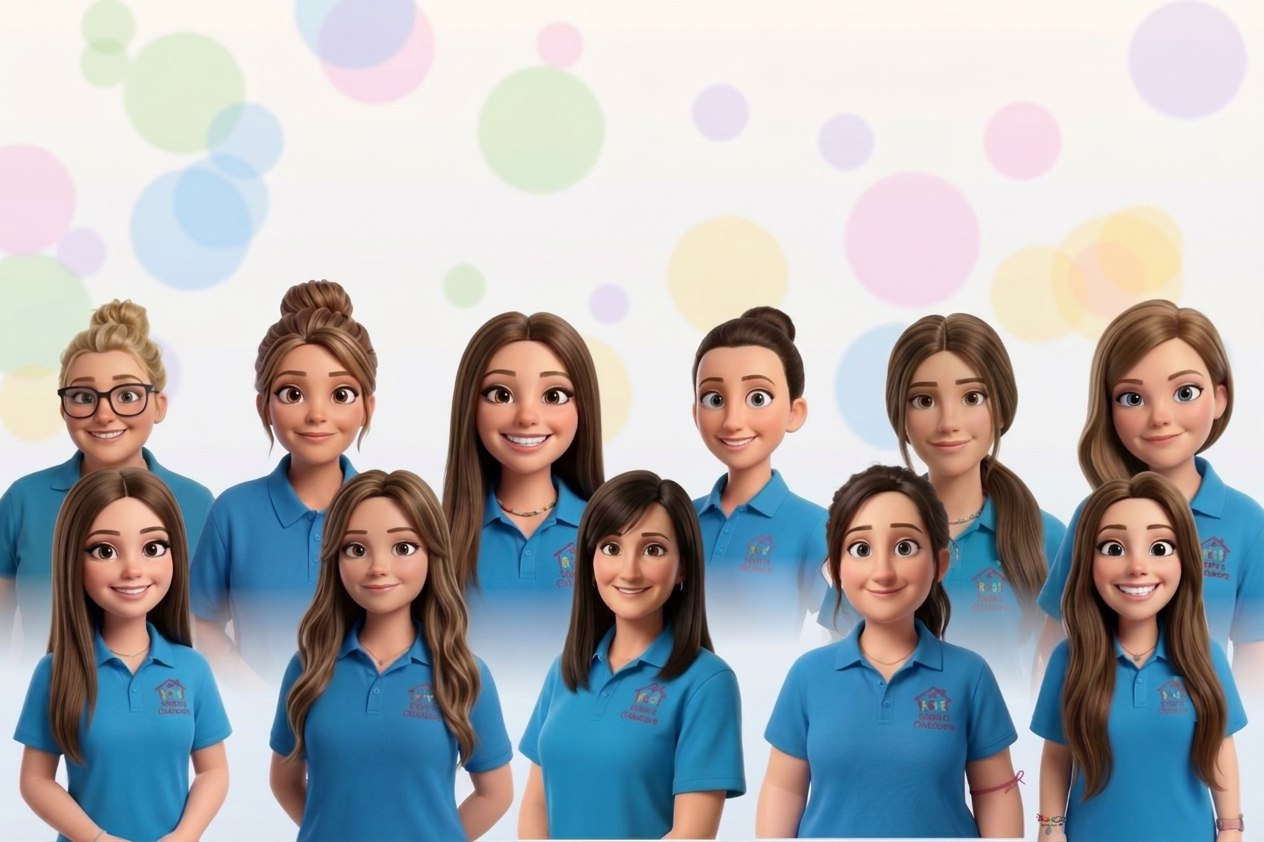
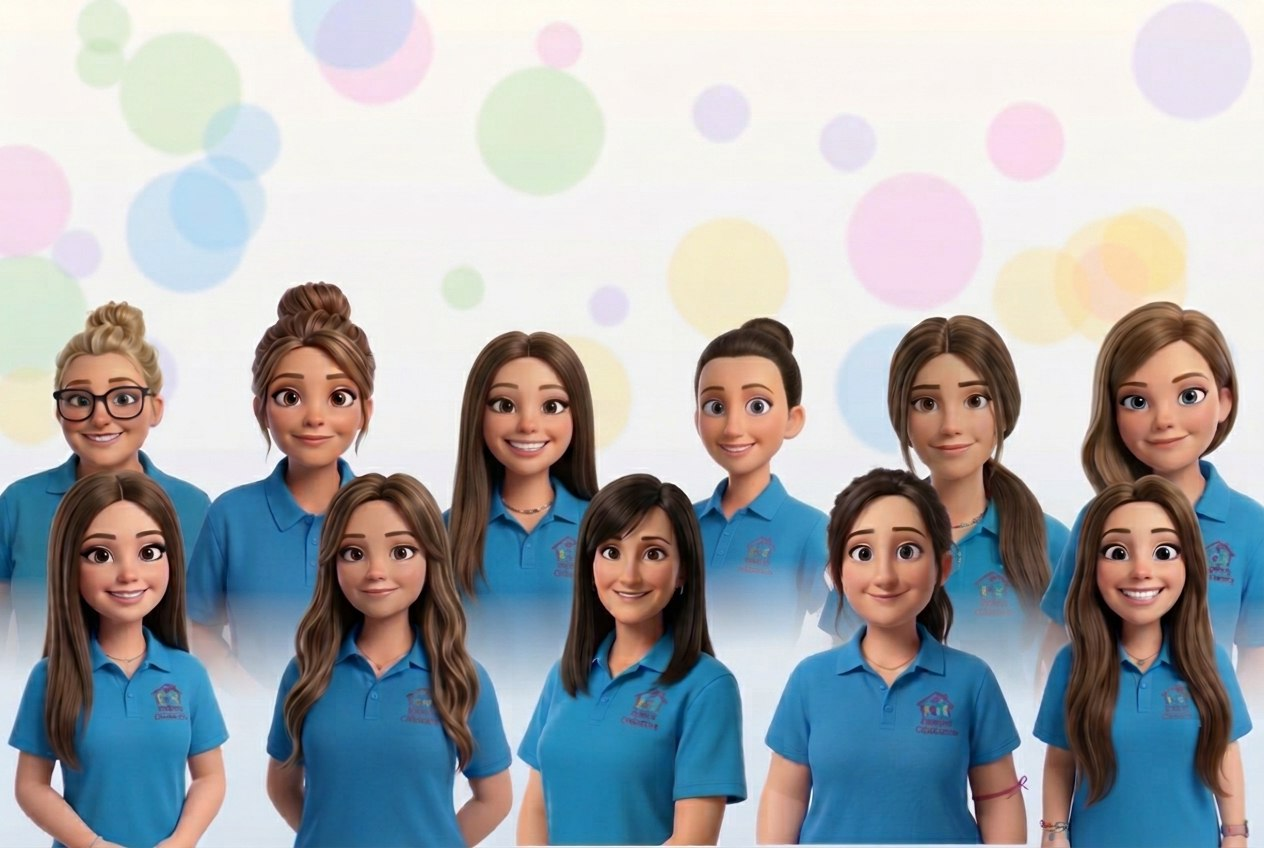
Team group: Katie's latest group picture

diff --git a/index.html b/index.html
@@ -15,7 +15,7 @@
   <meta property="og:title" content="Katie's Childcare | Nursery in Gedney Drove End, Spalding">
   <meta property="og:description" content="A warm, family-run nursery in Gedney Drove End for children aged 0 to 8. Come and see us in action.">
   <meta property="og:url" content="https://www.katieschildcare.co.uk/">
-  <meta property="og:image" content="https://www.katieschildcare.co.uk/assets/team-group.jpg?v=202611271859">
+  <meta property="og:image" content="https://www.katieschildcare.co.uk/assets/team-group.jpg?v=202611271904">
   <meta property="og:image:width" content="1800">
   <meta property="og:image:height" content="1200">
   <meta property="og:image:alt" content="Cartoon illustration of the Katie's Childcare team">
@@ -84,11 +84,11 @@
     ]
   }
   </script>
-  <link rel="icon" href="assets/logo-transparent.png?v=202611271859">
+  <link rel="icon" href="assets/logo-transparent.png?v=202611271904">
   <link rel="preconnect" href="https://fonts.googleapis.com">
   <link rel="preconnect" href="https://fonts.gstatic.com" crossorigin>
   <link href="https://fonts.googleapis.com/css2?family=DM+Mono:wght@400;500&family=Fredoka:wght@500;600;700&family=Instrument+Serif:ital@1&family=Nunito:wght@400;600;700;800&display=swap" rel="stylesheet">
-  <link rel="stylesheet" href="styles.css?v=202611271859">
+  <link rel="stylesheet" href="styles.css?v=202611271904">
 </head>
 <body>
   <a class="skip-link" href="#main">Skip to content</a>
@@ -101,7 +101,7 @@
   <header class="site-header" id="top">
     <div class="container nav">
       <a class="brand" href="#top" aria-label="Katie's Childcare, back to top">
-        <img src="assets/logo-transparent.png?v=202611271859" alt="Katie's Childcare" width="640" height="241">
+        <img src="assets/logo-transparent.png?v=202611271904" alt="Katie's Childcare" width="640" height="241">
       </a>
       <button class="nav-toggle" aria-expanded="false" aria-controls="nav-menu" aria-label="Open menu">
         <span></span><span></span><span></span>
@@ -141,7 +141,7 @@
             <p class="bubble-script">Come and see us in action.</p>
           </div>
           <div class="mascot">
-            <img src="assets/team/katie.jpg?v=202611271859" alt="Cartoon portrait of Katie smiling in a blue Katie's Childcare polo shirt" width="640" height="854">
+            <img src="assets/team/katie.jpg?v=202611271904" alt="Cartoon portrait of Katie smiling in a blue Katie's Childcare polo shirt" width="640" height="854">
           </div>
           <a class="btn btn-primary btn-sm" href="#day">See our day <svg aria-hidden="true" viewBox="0 0 24 24"><path d="M5 12h14M13 6l6 6-6 6"/></svg></a>
         </div>
@@ -204,7 +204,7 @@
               <p class="room-kind">Baby room</p>
               <h3>Tiny Treasures</h3>
               <p>A calm, cosy space for our youngest children, full of cuddles, songs and gentle play. Routines follow your baby's own feeding and sleep times.</p>
-              <p class="room-lead"><span class="avatar"><img src="assets/team/emily.jpg?v=202611271859" alt="" width="640" height="854" loading="lazy"></span><span>Room leader<strong>Emily</strong></span></p>
+              <p class="room-lead"><span class="avatar"><img src="assets/team/emily.jpg?v=202611271904" alt="" width="640" height="854" loading="lazy"></span><span>Room leader<strong>Emily</strong></span></p>
             </div>
           </article>
           <article class="room reveal" style="--c:var(--orange); --soft:var(--orange-soft); --d:.06s">
@@ -213,7 +213,7 @@
               <p class="room-kind">Toddler room</p>
               <h3>Little Gems</h3>
               <p>Busy little explorers learn through messy play, music and making new friends, with plenty of help along the way with talking, sharing and growing in confidence.</p>
-              <p class="room-lead"><span class="avatar"><img src="assets/team/chloe-day.jpg?v=202611271859" alt="" width="640" height="854" loading="lazy"></span><span>Room leader<strong>Chloe</strong></span></p>
+              <p class="room-lead"><span class="avatar"><img src="assets/team/chloe-day.jpg?v=202611271904" alt="" width="640" height="854" loading="lazy"></span><span>Room leader<strong>Chloe</strong></span></p>
             </div>
           </article>
           <article class="room reveal" style="--c:var(--blue); --soft:var(--blue-soft); --d:.12s">
@@ -222,7 +222,7 @@
               <p class="room-kind">Pre-school room</p>
               <h3>Shining Stars</h3>
               <p>Getting ready for big school with early letters and numbers, growing independence and lots of play-based learning.</p>
-              <p class="room-lead"><span class="avatar"><img src="assets/team/gemma.jpg?v=202611271859" alt="" width="640" height="854" loading="lazy"></span><span>Room leader<strong>Gemma</strong></span></p>
+              <p class="room-lead"><span class="avatar"><img src="assets/team/gemma.jpg?v=202611271904" alt="" width="640" height="854" loading="lazy"></span><span>Room leader<strong>Gemma</strong></span></p>
             </div>
           </article>
         </div>
@@ -258,7 +258,7 @@
         </div>
 
         <figure class="team-hero reveal">
-          <img src="assets/team-group.jpg?v=202611271859" alt="Cartoon illustration of the whole Katie's Childcare team standing together in matching blue polo shirts" width="1264" height="842" loading="lazy">
+          <img src="assets/team-group.jpg?v=202611271904" alt="Cartoon illustration of the whole Katie's Childcare team standing together in matching blue polo shirts" width="1264" height="848" loading="lazy">
         </figure>
 
         <ul class="team-grid" id="team-grid"></ul>
@@ -284,11 +284,11 @@
             <p class="section-intro">Short video tours of the nursery. Press play to have a look around.</p>
           </div>
           <figure class="video-card reveal" style="--soft:var(--pink-soft)">
-            <video controls playsinline preload="metadata" width="360" height="640" src="assets/gallery/video-1.mp4?v=202611271859#t=0.5"></video>
+            <video controls playsinline preload="metadata" width="360" height="640" src="assets/gallery/video-1.mp4?v=202611271904#t=0.5"></video>
             <figcaption>Nursery tour · 3 mins</figcaption>
           </figure>
           <figure class="video-card reveal" style="--soft:var(--blue-soft); --d:.06s">
-            <video controls playsinline preload="metadata" width="360" height="640" src="assets/gallery/video-2.mp4?v=202611271859#t=0.5"></video>
+            <video controls playsinline preload="metadata" width="360" height="640" src="assets/gallery/video-2.mp4?v=202611271904#t=0.5"></video>
             <figcaption>Inside and out · 3 mins</figcaption>
           </figure>
         </div>
@@ -484,7 +484,7 @@
 
   <footer class="site-footer">
     <div class="container footer-inner">
-      <img src="assets/logo-transparent.png?v=202611271859" alt="Katie's Childcare" width="640" height="241" loading="lazy">
+      <img src="assets/logo-transparent.png?v=202611271904" alt="Katie's Childcare" width="640" height="241" loading="lazy">
       <nav aria-label="Footer">
         <a href="#about">About</a><a href="#rooms">Rooms</a><a href="#team">Team</a><a href="#gallery">Gallery</a><a href="#fees">Fees</a><a href="#faqs">FAQs</a><a href="#contact">Contact</a>
       </nav>
@@ -496,6 +496,6 @@
     </div>
   </footer>
 
-  <script src="script.js?v=202611271859"></script>
+  <script src="script.js?v=202611271904"></script>
 </body>
 </html>

diff --git a/script.js b/script.js
@@ -1,5 +1,5 @@
 // Bumped by tools/bump-version.ps1 on every update so browsers fetch fresh pictures.
-const ASSET_VERSION = "202611271859";
+const ASSET_VERSION = "202611271904";
 const v = (path) => `${path}?v=${ASSET_VERSION}`;
 
 // The contact form opens the visitor's email app with their message addressed here.
